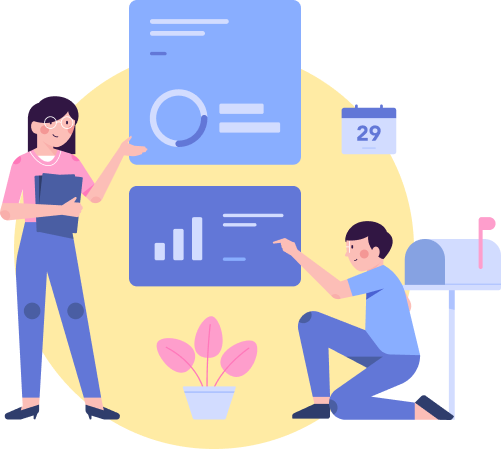
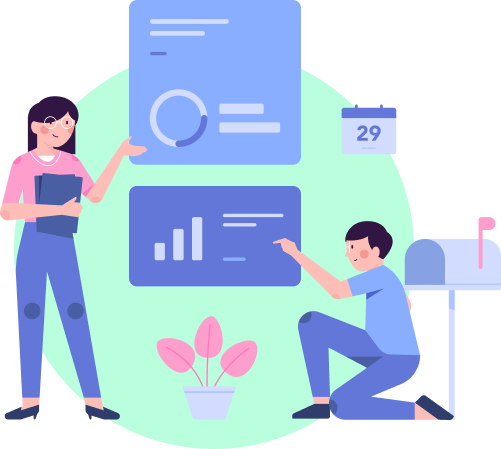
Landing Page Update

Changed region(s): [[0.0599, 0.1559, 0.8383, 1.0], [0.6587, 0.7795, 0.7485, 0.8731], [0.0299, 0.4365, 0.0599, 0.5924]]

diff --git a/src/AboutUs.js b/src/AboutUs.js
@@ -1,9 +1,24 @@
 import './css/AboutUs.css'
+import Footer from './assets/footer2.png'
+import Card from './strategy_card'
 
 function AboutUs() {
     return (
+        <div className="one">
         <div className="aboutus">
-            Hello
+            <h1 className="headline">Who we are</h1>
+
+            <div class="row">
+                <div class="column left">
+                    
+                </div>
+
+                <div class="column right">
+                    <h3>The Science of Election</h3>
+                </div>
+            </div>
+        </div>
+        <div><img className="footer2" src={Footer} alt="footer"></img></div>
         </div>
     )
 }

diff --git a/src/LandingPage.js b/src/LandingPage.js
@@ -10,7 +10,7 @@ function LandingPage() {
                 <div class="column left">
                     <h1 className="punchline">The Science of Election</h1>
                     <p className="subheading">Lorem ipsum dolor sit amet, consectetur adipiscing elit, sed do eiusmod tempor incididunt ut labore et dolore magna aliqua. Ut enim ad minim veniam, quis nostrud exercitation.</p>
-                    <a href="#"><div className="buttona">Learn More</div></a>
+                    <a href="https://youtu.be/dQw4w9WgXcQ" target="_blank"><div className="buttona">Learn More</div></a>
                 </div>
 
                 <div class="column right">

diff --git a/src/css/Navbar.css b/src/css/Navbar.css
@@ -4,7 +4,7 @@
     font-weight: 500;
 }
 
-* {
+*{
     box-sizing: border-box;
   }
   
@@ -14,7 +14,7 @@
   }
   
   .nav {
-    height: 50px; 
+    height: 50px;
     width: 100%;
     position: relative;
   }
@@ -47,7 +47,7 @@
   .button {
     background-color: white;
     display: inline-block;
-    margin-right: 5vw;
+    margin-right: 4.5vw;
     margin-top: 50px;
     border-radius: 7px;
   }
@@ -60,7 +60,7 @@
   }
 
   .green{
-    background-color: #ffeba4;
+    background-color: #64FFB5;
   }
   
   @media (max-width:800px) {

diff --git a/src/index.js b/src/index.js
@@ -3,12 +3,17 @@ import ReactDOM from 'react-dom';
 import Navbar from './Navbar';
 import Landing from './LandingPage'
 import AboutUs from './AboutUs'
+import Strategy from './Strategy'
 import reportWebVitals from './reportWebVitals';
 
 ReactDOM.render(
   <React.StrictMode>
-    <Navbar />
-    <Landing />
+    <div className="main">
+      <Navbar />
+      <Landing />
+      <AboutUs />
+      <Strategy />
+    </div>
   </React.StrictMode>,
   document.getElementById('root')
 );

diff --git a/src/css/Landing.css b/src/css/Landing.css
@@ -21,7 +21,7 @@
     z-index: 2;
     margin-right: 100px;
     margin-left: 100px;
-    margin-bottom: 0%;
+    margin-bottom: 0;
 }
 
 .column {
@@ -51,7 +51,7 @@
 }
 
 .buttona{
-    background-color: #ffeba4;
+    background-color: #64FFB5;
     border-radius: 5px;
     width: 120px;
     padding: 10px 0px 10px 0px;
@@ -87,7 +87,7 @@
     margin-top: -17px;
     width: 100%;
     height: 15vh;
-    background-color: #ffeba4;
+    background-color: #B9FFDD;
 }
 
 .scroll-text{

diff --git a/src/css/AboutUs.css b/src/css/AboutUs.css
@@ -1,4 +1,17 @@
 .aboutus{
-    background-color: teal;
-    height: 10vh;
+    background-color: #B9FFDD;
+    height: 70vh;
+}
+
+.aboutus > h1 {
+    margin-top: 0%;
+}
+
+.headline {
+    text-align: center;
+}
+
+.footer2{
+    width: 100%;
+    height: auto;
 }

diff --git a/src/strategy_card.js b/src/strategy_card.js
@@ -1,0 +1,12 @@
+import React from 'react';
+
+class Card extends React.Component {
+   render() {
+      return (
+         <div>
+            <h1>{this.props.title}</h1>
+         </div>
+      );
+   }
+}
+export default Card;

diff --git a/src/Strategy.js b/src/Strategy.js
@@ -1,0 +1,11 @@
+import './css/Strategy.css'
+
+function Strategy() {
+    return (
+        <div className="strategy">
+            <h1>Strategy Headline</h1>
+        </div>
+    )
+}
+
+export default Strategy

diff --git a/src/index.css b/src/index.css
@@ -11,3 +11,7 @@ code {
   font-family: source-code-pro, Menlo, Monaco, Consolas, 'Courier New',
     monospace;
 }
+
+.main{
+  display: inline-block;
+}

diff --git a/src/css/Strategy.css b/src/css/Strategy.css
@@ -1,0 +1,4 @@
+.strategy > h1 {
+    margin-top: 0%;
+    text-align: center;
+}
